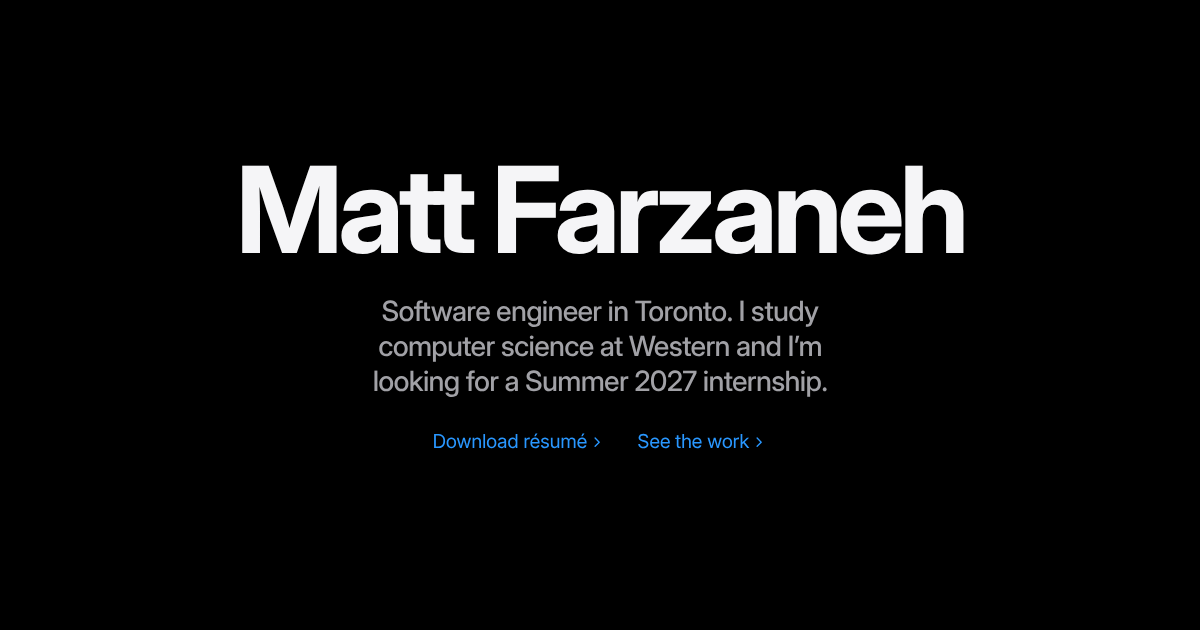
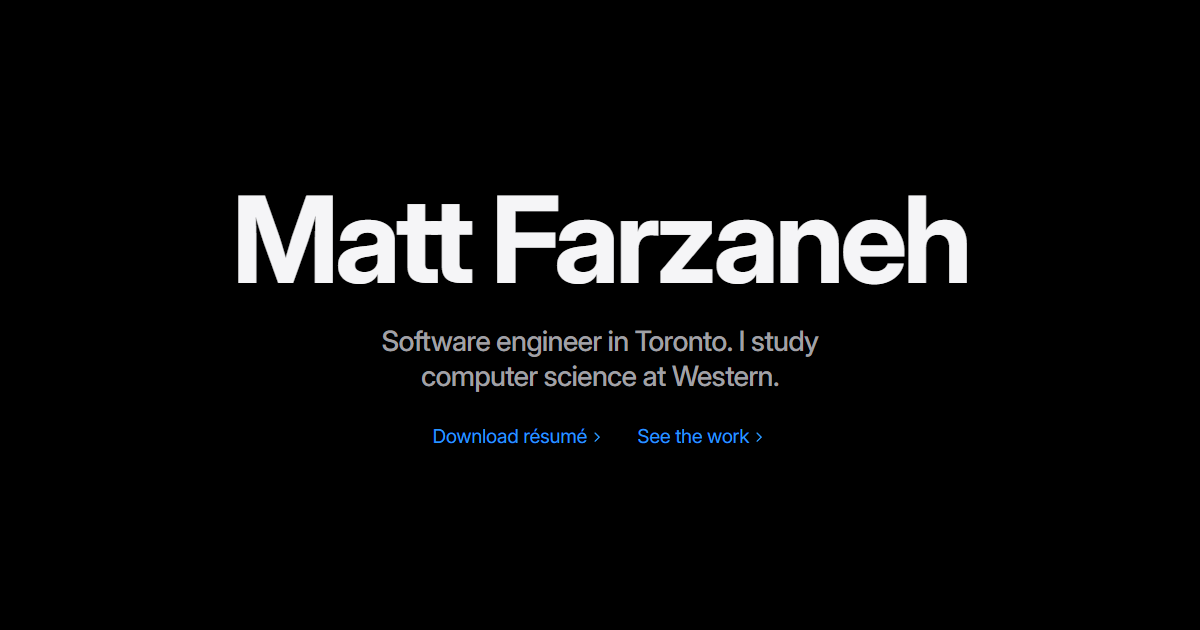
Remove internship line and en dashes from site copy

diff --git a/src/content.js b/src/content.js
@@ -162,7 +162,7 @@ export const experience = [
     id: 'upp',
     org: 'University Pension Plan Ontario',
     role: 'Analyst Intern, Strategic Initiatives (Software Development)',
-    dates: 'May 2026 – Present',
+    dates: 'May 2026 to present',
     location: 'Toronto, ON',
     summary: 'Data pipelines for the Public Markets Quant team, a Dockerized Streamlit app on GCP for manager reviews, and AI agents with input validation and credential protection.',
     points: [
@@ -177,7 +177,7 @@ export const experience = [
     id: 'after-image',
     org: 'After Image Inc',
     role: 'Co-Founder / Developer',
-    dates: 'Jun 2025 – May 2026',
+    dates: 'Jun 2025 to May 2026',
     location: 'Toronto, ON',
     summary: 'The Node.js backend on AWS for a B2B SaaS product I co-founded with a teammate, including role-based access, reporting APIs and Stripe billing.',
     points: [
@@ -190,7 +190,7 @@ export const experience = [
     id: 'kd',
     org: 'K&D Consulting',
     role: 'Data Engineer & Business Analyst',
-    dates: 'May 2024 – Sep 2025',
+    dates: 'May 2024 to Sep 2025',
     location: 'Toronto, ON',
     summary: 'A Python automation framework driven by YAML configs that cut manual Excel processing by 95%.',
     points: [
@@ -277,7 +277,7 @@ export const liveTraces = [
 
 // Apple-style home page copy.
 export const home = {
-  intro: 'Software engineer in Toronto. I study computer science at Western and I’m looking for a Summer 2027 internship.',
+  intro: 'Software engineer in Toronto. I study computer science at Western.',
   statement: 'I like work where you can check the answer. My order book matched Databento’s at all 3.77 million checkpoints in a day of AAPL trading.¹ My Urbanova job queue recovers when a worker stalls mid-run, and code checks Gemini’s numbers and citations before anything is saved.',
   chapters: {
     urbanova: {

diff --git a/src/index.css b/src/index.css
@@ -192,7 +192,6 @@ button { font: inherit; color: inherit; letter-spacing: inherit; }
 /* ---------- Contact ---------- */
 .contact { text-align: center; padding-bottom: clamp(96px, 12vw, 160px); }
 .contact-title { font-size: clamp(56px, 9vw, 112px); line-height: 1; font-weight: 700; letter-spacing: -0.04em; scroll-margin-top: 80px; }
-.contact-sub { margin-top: 16px; font-size: clamp(21px, 2.4vw, 28px); font-weight: 500; letter-spacing: -0.025em; color: var(--ink-2); }
 .contact-email { margin-top: 28px; font-size: clamp(22px, 3vw, 36px); font-weight: 600; letter-spacing: -0.03em; overflow-wrap: anywhere; }
 .contact-email a { color: var(--link); }
 .contact-email a:hover { text-decoration: underline; text-underline-offset: 0.15em; }

diff --git a/src/components/Home.jsx b/src/components/Home.jsx
@@ -146,7 +146,6 @@ export default function Home() {
 
       <section className="band contact" aria-labelledby="contact">
         <Reveal as="h2" className="contact-title" id="contact">Email me.</Reveal>
-        <Reveal as="p" className="contact-sub">I’m looking for a Summer 2027 software engineering internship.</Reveal>
         <Reveal as="p" className="contact-email"><a href={'mailto:' + profile.email}>{profile.email}</a></Reveal>
         <Reveal as="p" className="contact-links">
           <More href={profile.resume} download="Matt-Farzaneh-Resume.pdf">Résumé (PDF)</More>

diff --git a/DESIGN.md b/DESIGN.md
@@ -275,7 +275,7 @@ These four are fills only (dots, bars, swatches), never text. Each clears 3:1 ag
 - **Section Title** (700, up to 64px, 1.06): centred band titles that end in a full stop ("What I measured.", "Experience.", "Outside of work.").
 - **Statement** (650, up to 60px, 1.12): the scroll-lit statement, one large paragraph, `text-wrap: pretty`.
 - **Title** (700, up to 32px, 1.15): employer names in experience rows; project-page section heads use 700 at up to 40px.
-- **Lede** (500, up to 28px, 1.25, Ink Two): hero intro (30ch), chapter ledes (600, up to 32px, 28ch), project summaries, contact sub-line. Always balanced.
+- **Lede** (500, up to 28px, 1.25, Ink Two): hero intro (30ch), chapter ledes (600, up to 32px, 28ch), project summaries. Always balanced.
 - **Prose** (400, 19px, 1.5): project-page paragraphs and long lists inside a 720px column; role summaries cap at 60ch.
 - **Body** (400, 17px, 1.47, `cv11`): the base size for links, buttons and default text.
 - **Label** (400, 13px): nav links (at 80% opacity), captions, trace meta, chips (12px).
